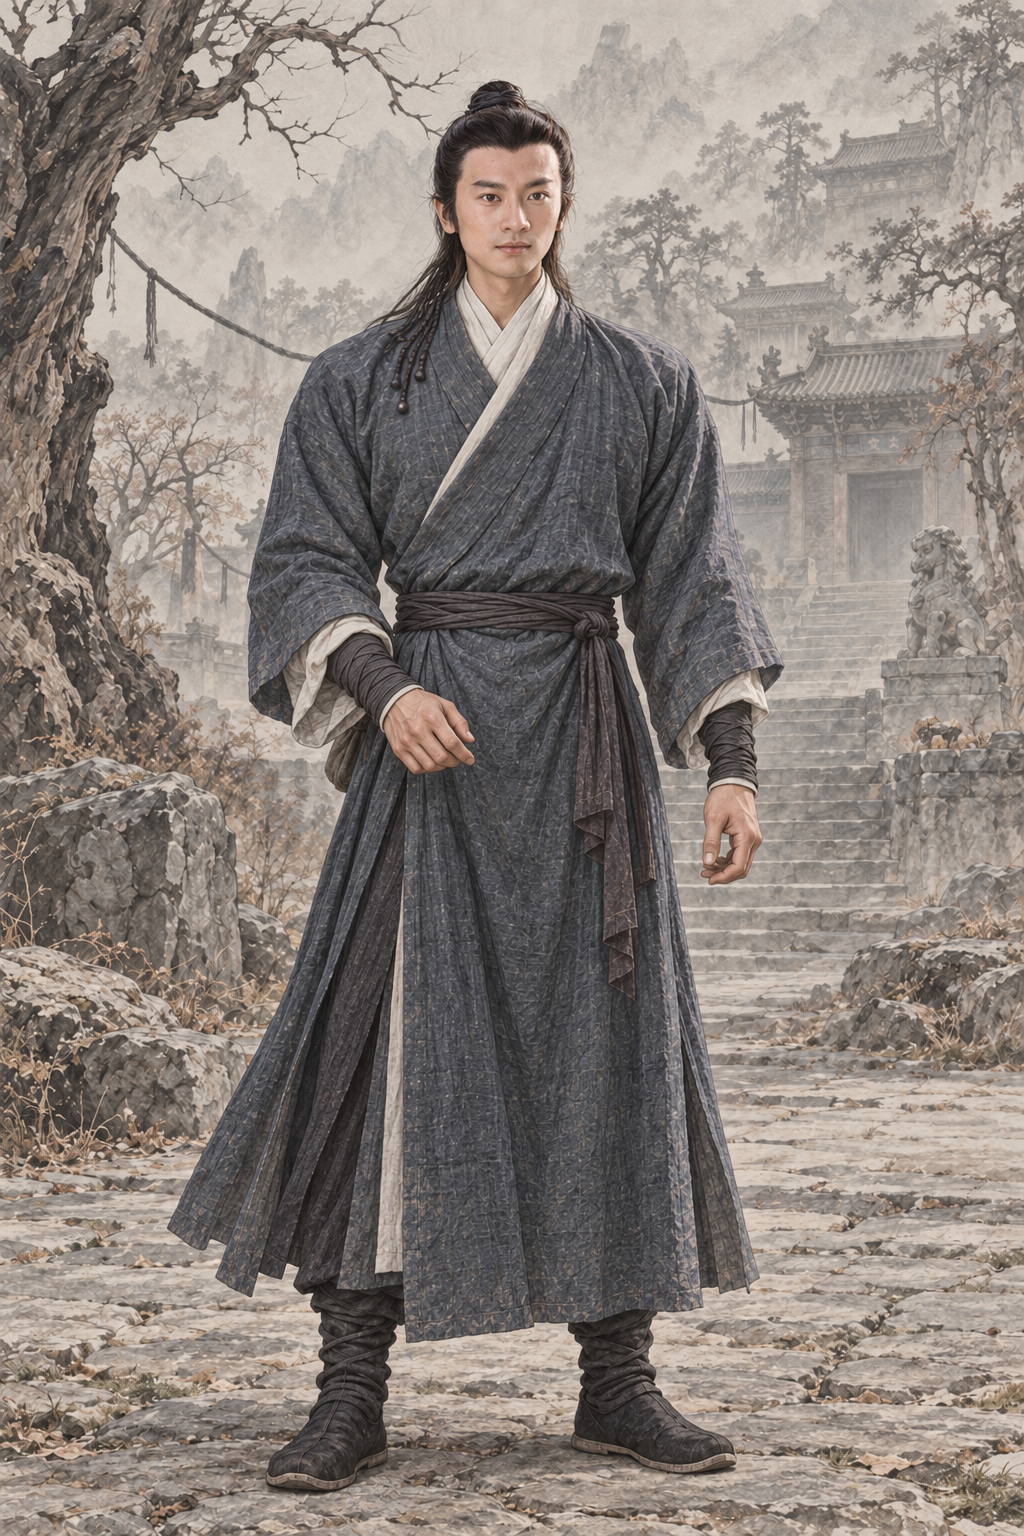
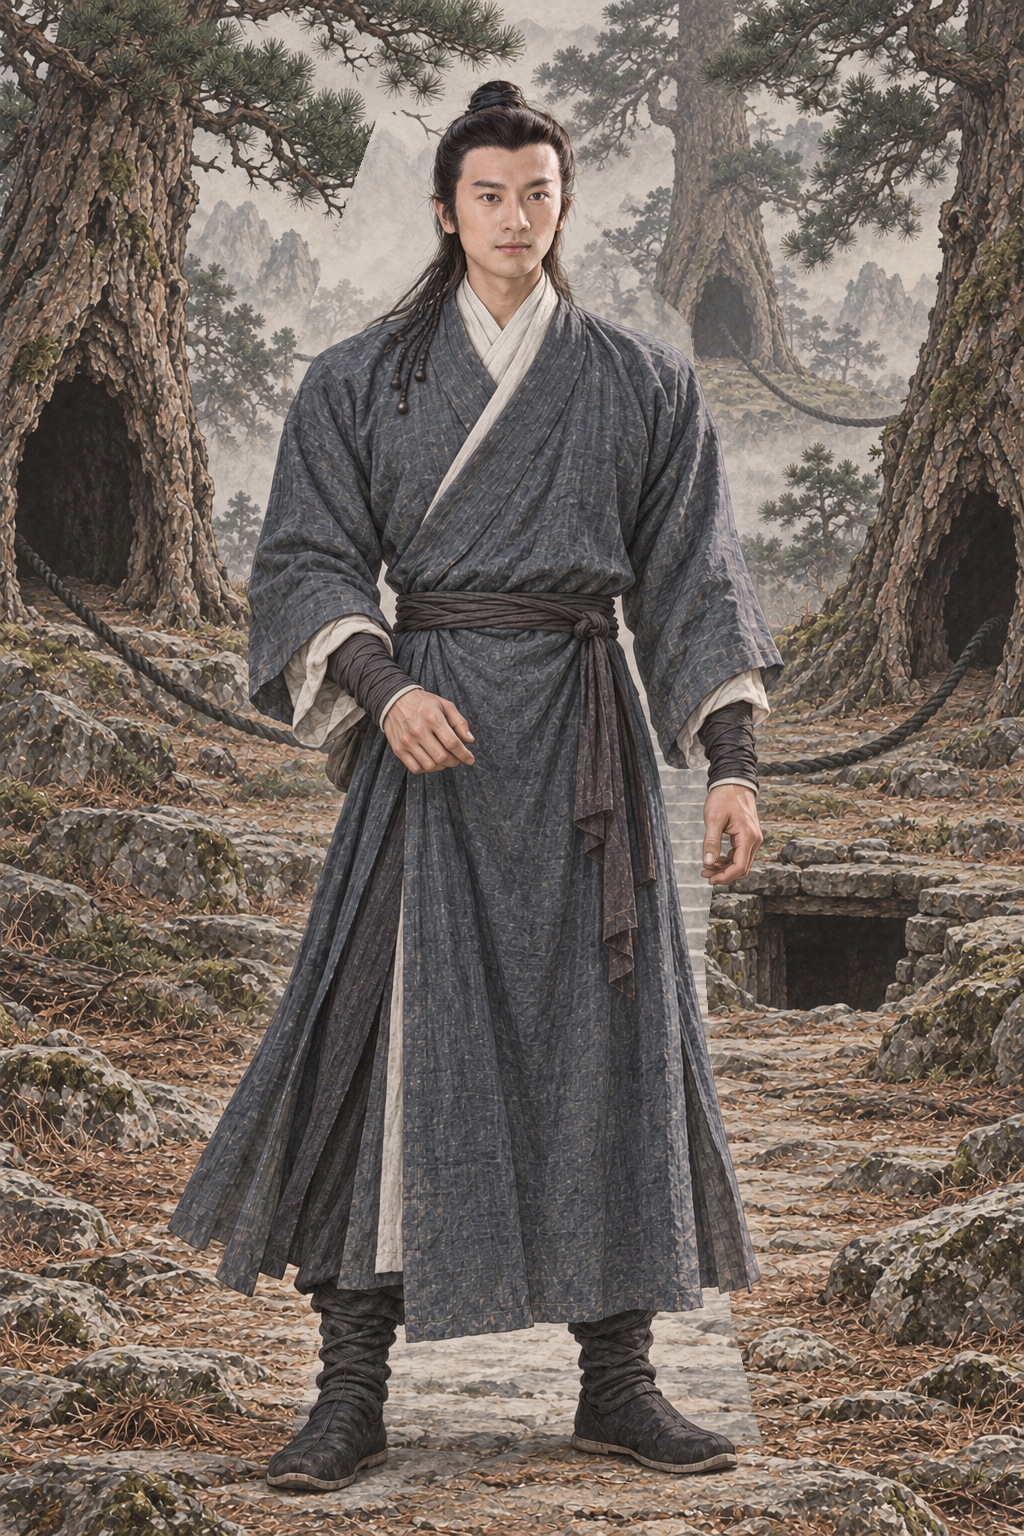
assets: AR-82 原著核对返修 张无忌三渡场景改少林后山三松
原著摘句已同步提示词；已打开验图；蒙版外0像素变化。

Executed-By: Codex gpt-6.1-sol（AR-82）

diff --git a/assets/default/prompts/characters/ch04-yitian/npc_zhangwuji__scene_sandu.md b/assets/default/prompts/characters/ch04-yitian/npc_zhangwuji__scene_sandu.md
@@ -126,3 +126,8 @@ Create a premium REALISTIC Chinese wuxia character illustration with a delicate 
 - 采用作者授权宽松自查；偏差如实记录，candidate不代表approved。
 - 源PNG通常为1024×1536 RGB；其他原生2:3尺寸如实登记，原字节保存，不裁切、重编码、放大或去除溯源。
 - 完整请求、实际参考哈希及旧版本备份见 `.agents/coord/portrait-generation/realism-20261001/por_npc_zhangwuji__ch04_youth_scene_sandu.prepared.json`。
+
+## 原著依据
+
+- 《倚天屠龙记》三十六 夭矫三松郁青苍：“更无房舍，只有三株高松，作品字形排列”；“每一株树的凹洞中均坐着一个老僧”；https://www.xuges.com/wuxia/jinyong/yttlj/268.htm
+- AR-82 返修约束（本节优先于历史提示词）：仅改变张无忌以外环境：去掉寺门石阶与枯枝阔叶树，改少林后山三株苍松作品字排列的地窖区域，高松有容人老僧的树穴，黑索从树穴伸出。三渡可以画外；不额外添加人物。张无忌身体、衣服、头脸、手势与原尺寸逐像素不变。
